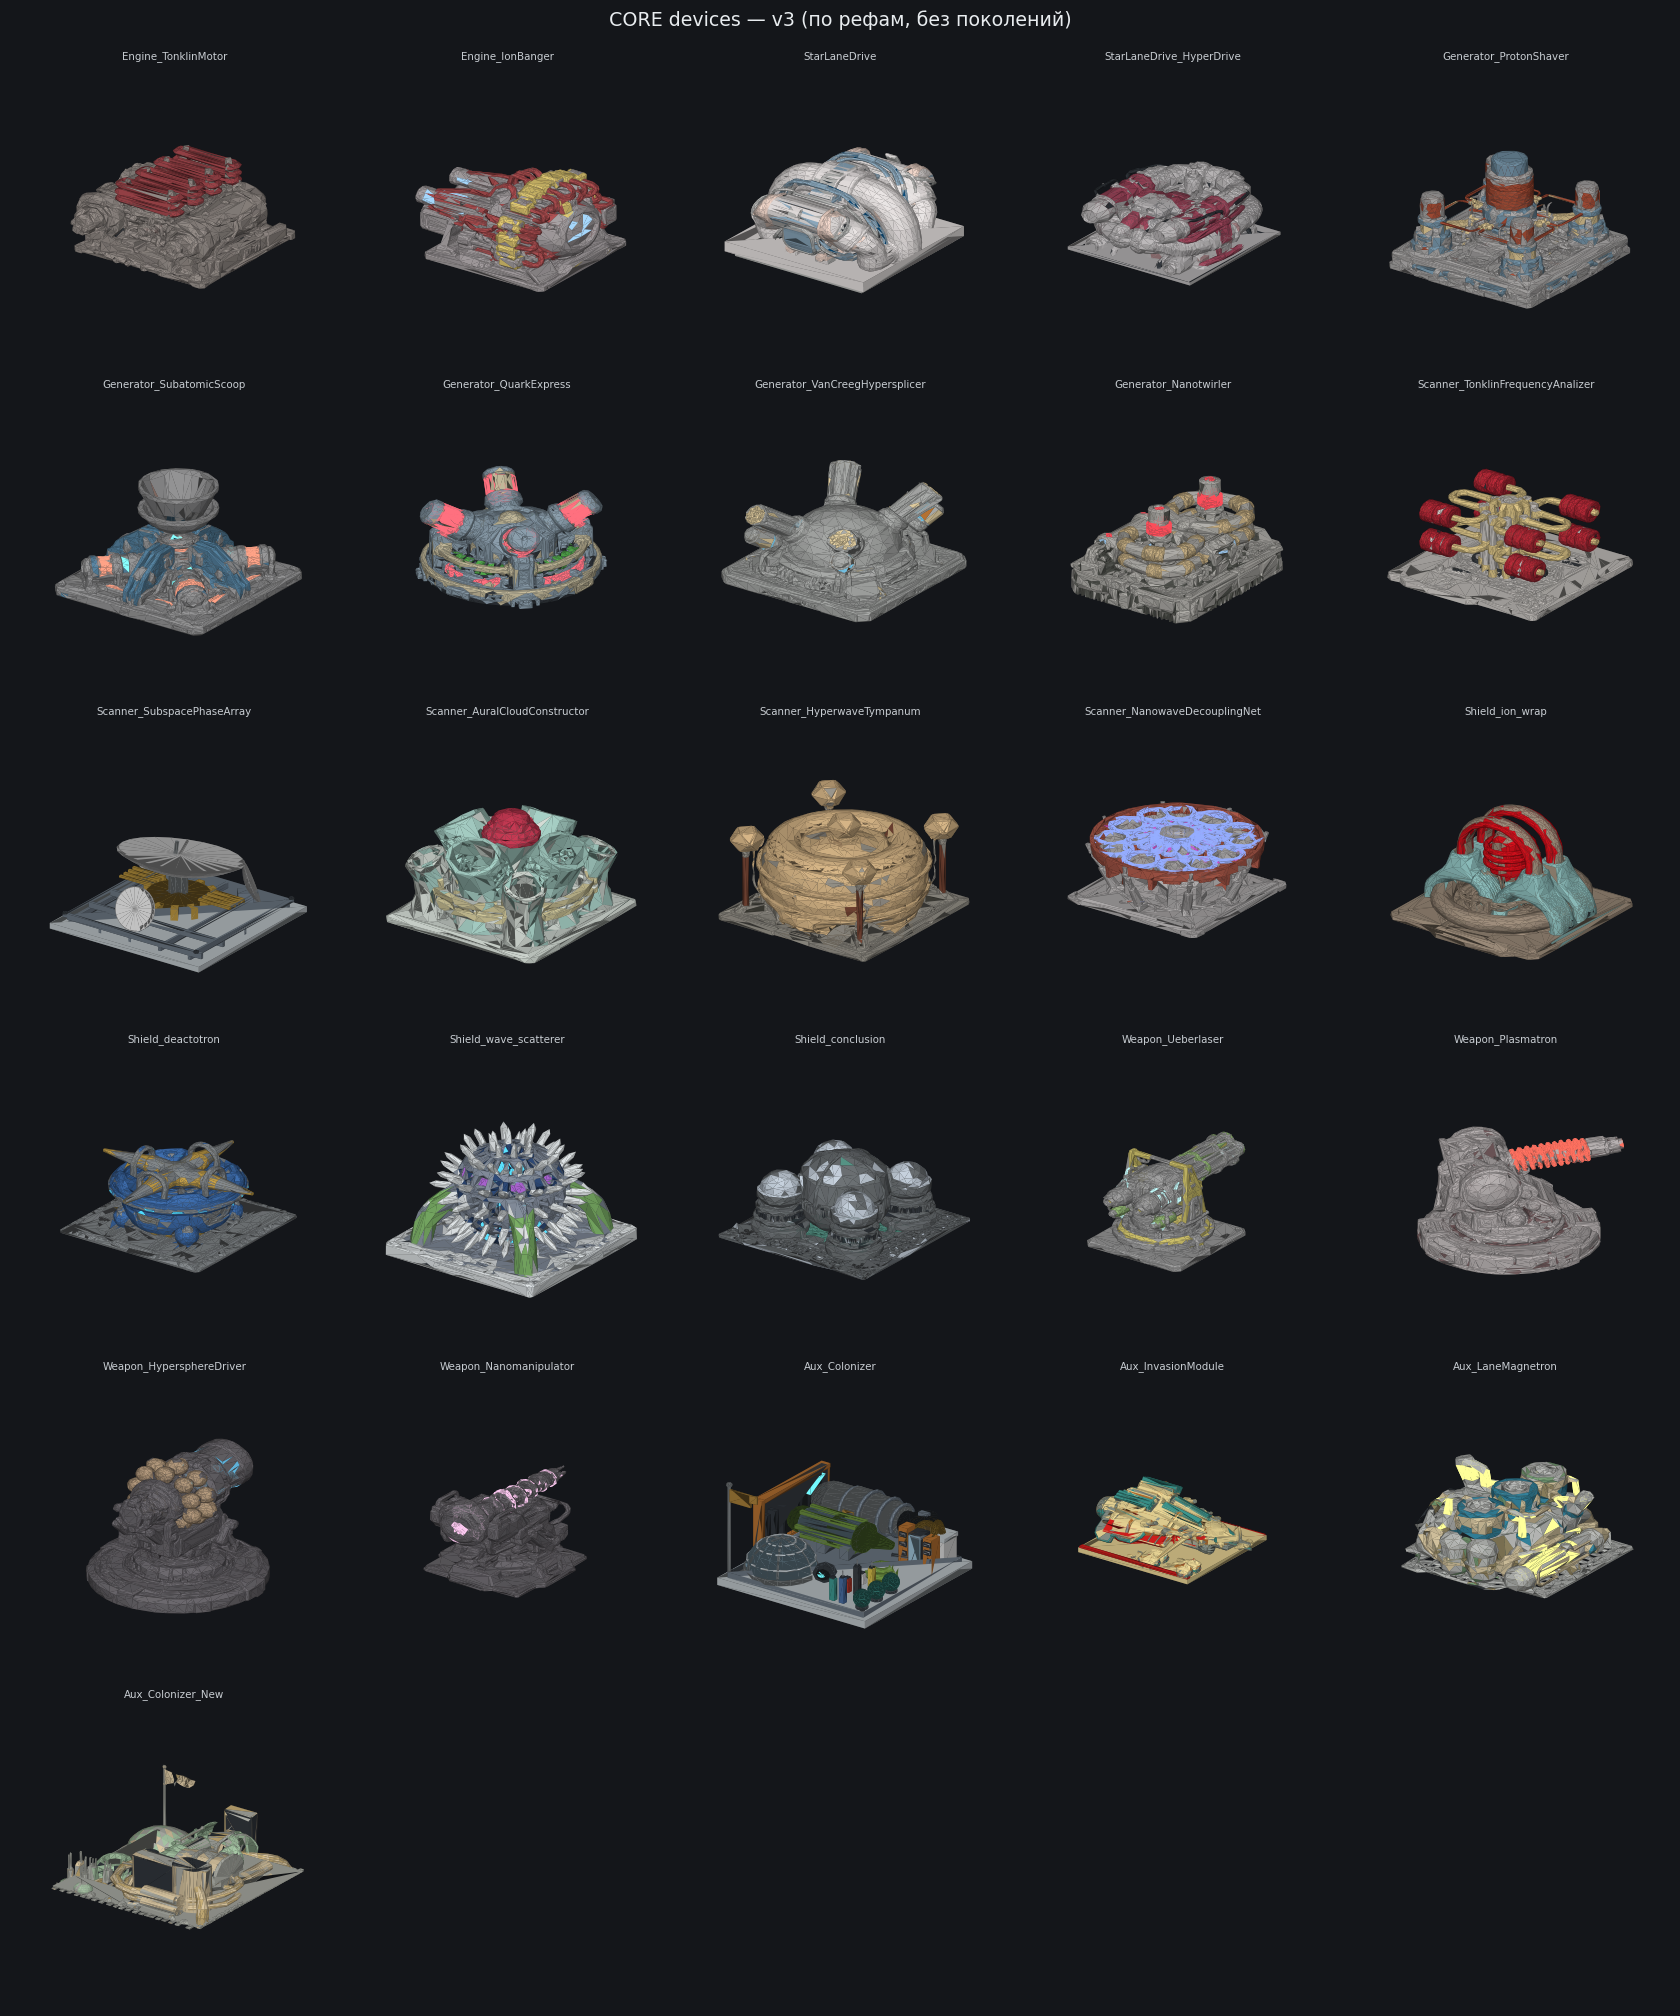
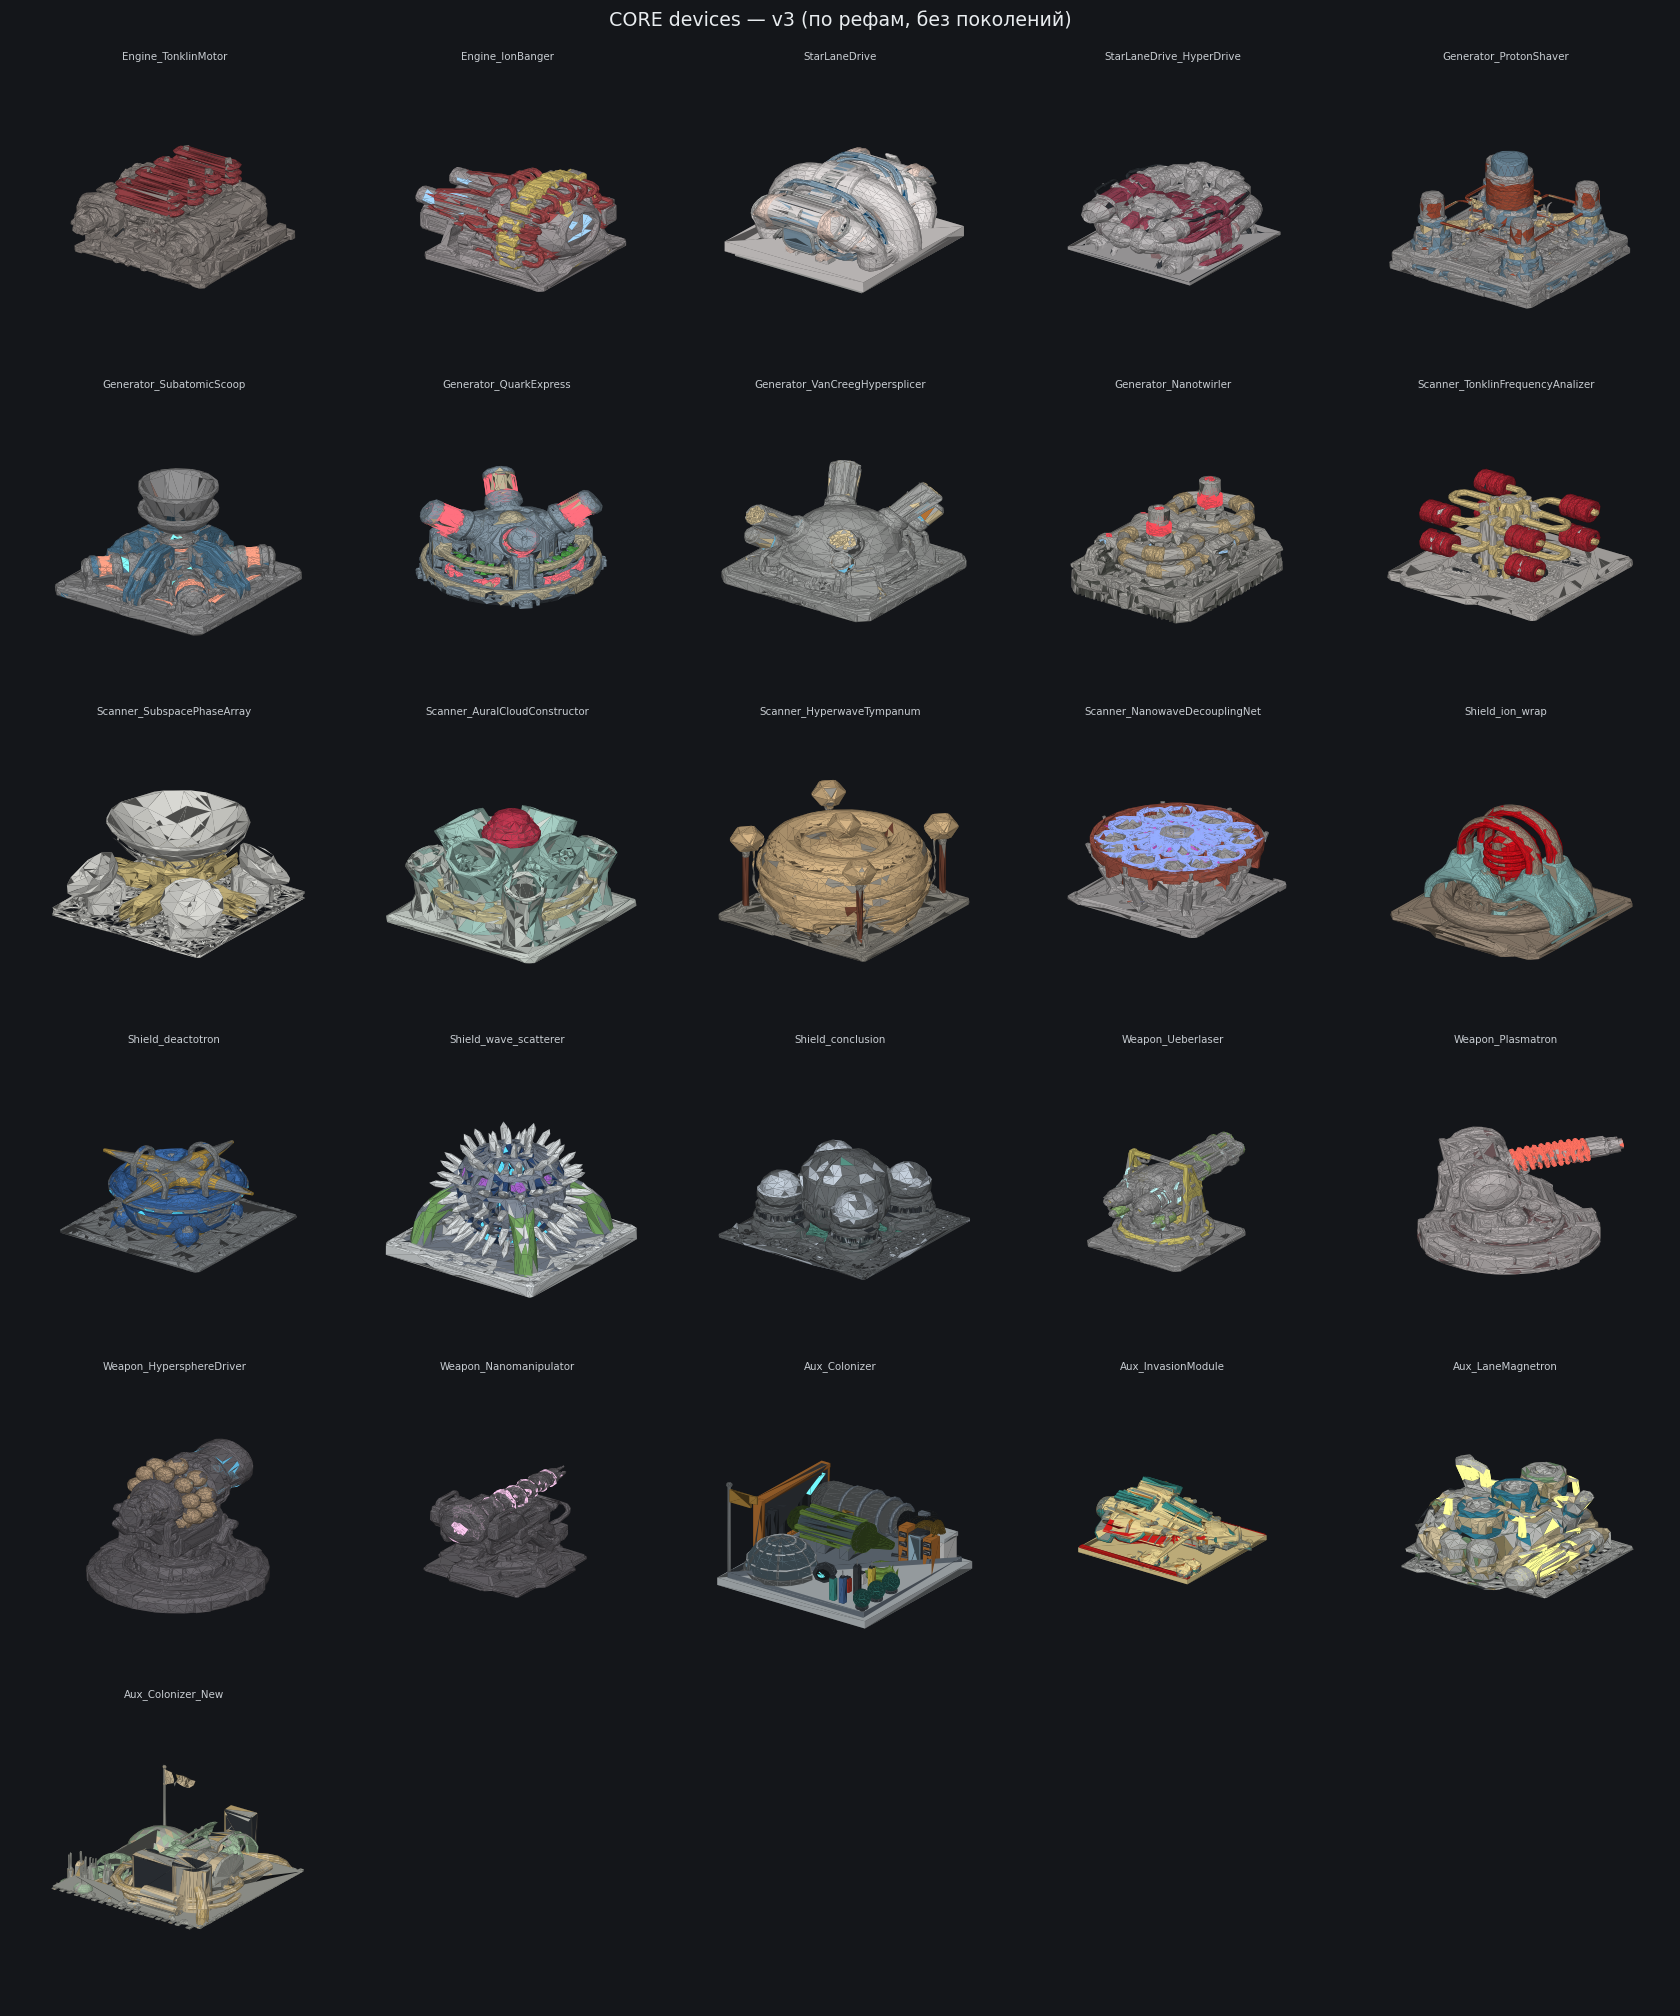
Replace SubspacePhaseArray scanner with imported low-poly mesh
Geometry + colour extracted directly from
Scanner_core_SubspacePhaseArray_2_texture.glb — no separate untextured
model needed: the constructor loads only a small npz (V/F + one material
tag per face), so the heavy 4K texture never enters the pipeline. UV-seam
vertices welded (22016->3881), per-face colour transferred from the UV
sample (linear->sRGB) with 5-neighbour denoise. Concept FARSIGHT SC-2:
big central + four corner dishes (spwhite) on gold cross-feeds and radial
fins (spgold), silver lattice plate. Native plate clean — kept,
catalog plate=None; normalized to max dimension 1.0. Mesh npz 210KB
(smaller than peers thanks to welding).

Все 5 сканеров теперь импортные меши. Оригинал в
ascendancy-refs-originals, в репо JPEG-превью и концепт.

Changed region(s): [[0.031, 0.375, 0.1857, 0.5]]

diff --git a/docs/asset-bible/tools/device_recipes_core.py b/docs/asset-bible/tools/device_recipes_core.py
@@ -295,41 +295,24 @@ def scanner_tonklin_freq(seed=0):
     return _load_imported_mesh(_TONKLIN_FREQ_MESH_PATH)
 
 
+_SUBSPACE_PHASE_ARRAY_MESH_PATH = os.path.join(
+    os.path.dirname(os.path.abspath(__file__)),
+    "subspace_phase_array_mesh.npz")
+
+
 def scanner_subspace_phase_array(seed=0):
-    """Большая белая тарелка с крестовиной на золотом зубчатом основании
-    и три малых тарелки вокруг (реф Scanner_SubspacePhaseArray)."""
-    P = []
-    Z = PLATE_TOP
-    # золотое зубчатое основание
-    P.append(_p(tf(cyl(0.3, 0.14, 16), t=(0, 0, Z + 0.07)), 'gold'))
-    for a in np.linspace(0, 2 * PI, 12, endpoint=False):
-        P.append(_p(tf(box(0.1, 0.07, 0.12),
-                       t=(0.32 * math.cos(a), 0.32 * math.sin(a), Z + 0.07),
-                       rz=a), 'gold'))
-    P.append(_p(tf(cyl(0.09, 0.2, 10), t=(0, 0, Z + 0.24)), 'silver'))
-    # большая тарелка (лицом вверх, чуть к зрителю)
-    d = dish_mesh(0.6, depth=0.3)
-    P.append(_p(tf(d, t=(0, 0, Z + 0.34), rx=-0.22), 'white'))
-    # крестовина-облучатель
-    for a in (0, PI / 2):
-        P.append(_p(tf(tf(cyl(0.012, 0.75, 6), ry=PI / 2), t=(0, 0, Z + 0.52),
-                       rz=a + 0.4, rx=-0.22), 'white'))
-    P.append(_p(tf(cyl(0.02, 0.3, 6), t=(0, -0.05, Z + 0.55), rx=-0.22),
-                'silver'))
-    # золотые пластинчатые веера по бокам
-    for sgn in (-1, 1):
-        for k in range(4):
-            P.append(_p(tf(box(0.36, 0.03, 0.02 + 0.008 * k),
-                           t=(sgn * 0.45, -0.05 + k * 0.07, Z + 0.16)),
-                        'gold'))
-    # три малых тарелки вокруг
-    for a in (PI * 0.78, PI * 1.5, PI * 0.22):
-        x, y = 0.62 * math.cos(a), 0.62 * math.sin(a)
-        P.append(_p(tf(box(0.14, 0.12, 0.14), t=(x, y, Z + 0.07), rz=a),
-                    'plat'))
-        P.append(_p(tf(dish_mesh(0.22, depth=0.28), t=(x, y, Z + 0.2),
-                       rx=-PI / 2.6, rz=a - PI / 2), 'white'))
-    return merge(P)
+    """Импорт Scanner_core_SubspacePhaseArray_2 (10470 треуг.; концепт
+    FARSIGHT SC-2): большая белая тарелка с крестовиной-облучателем и
+    четыре малых тарелки (spwhite) на золотых крестах-облучателях и
+    радиальных плавниках (spgold), на серебристой решётчатой плите.
+    Геометрия и цвет извлечены напрямую из
+    Scanner_core_SubspacePhaseArray_2_texture.glb (отдельного
+    untextured-меша не требуется: конструктор грузит только npz с V/F и
+    тегом материала на грань — тяжёлая текстура в пайплайн не попадает).
+    Вершины по UV-швам сварены (22016->3881), цвет перенесён попиксельно
+    по UV с денойзом по 5 соседям, linear->sRGB. Родная плита чистая —
+    оставлена, каталог plate=None; нормировка до макс. габарита 1.0."""
+    return _load_imported_mesh(_SUBSPACE_PHASE_ARRAY_MESH_PATH)
 
 
 _AURAL_CLOUD_MESH_PATH = os.path.join(

diff --git a/docs/asset-bible/tools/build_device_sets.py b/docs/asset-bible/tools/build_device_sets.py
@@ -198,6 +198,10 @@ MATS = {
     "acteal":    ("#A9D2C8", 0.3, 0.45, 0),
     "acgold":    ("#D8CFA0", 0.8, 0.35, 0),
     "acred":     ("#C93A54", 0.3, 0.35, 0),
+    # --- SubspacePhaseArray (перенос цвета с эталонного референса, см.
+    # device_recipes_core.scanner_subspace_phase_array)
+    "spwhite":   ("#D9D9D4", 0.3, 0.35, 0),
+    "spgold":    ("#DEC98A", 0.9, 0.30, 0),
 }
 
 # рецепты, которым НЕ включаем сглаживание (гекс-щит должен остаться гранёным)

diff --git a/docs/asset-bible/tools/device_catalog_core.py b/docs/asset-bible/tools/device_catalog_core.py
@@ -42,7 +42,7 @@ RECIPES = [
     ("Scanner_TonklinFrequencyAnalizer", "Tonklin Frequency Analizer",
      "scanner", 'scanner_tonklin_freq', None),
     ("Scanner_SubspacePhaseArray", "Subspace Phase Array", "scanner",
-     'scanner_subspace_phase_array', 'lattice'),
+     'scanner_subspace_phase_array', None),
     ("Scanner_AuralCloudConstructor", "Aural Cloud Constructor", "scanner",
      'scanner_aural_cloud', None),
     ("Scanner_HyperwaveTympanum", "Hyperwave Tympanum", "scanner",

diff --git a/docs/asset-bible/tools/preview_devices_core.py b/docs/asset-bible/tools/preview_devices_core.py
@@ -72,6 +72,7 @@ PALETTE = {
     "hwred": ("#7E4A38", 0), "hwdark": ("#403F38", 0),
     "acsteel": ("#D6DED7", 0), "acteal": ("#A9D2C8", 0),
     "acgold": ("#D8CFA0", 0), "acred": ("#C93A54", 0),
+    "spwhite": ("#D9D9D4", 0), "spgold": ("#DEC98A", 0),
 }
 LIGHT = np.array([0.4, -0.65, 0.65])
 LIGHT_N = LIGHT / np.linalg.norm(LIGHT)